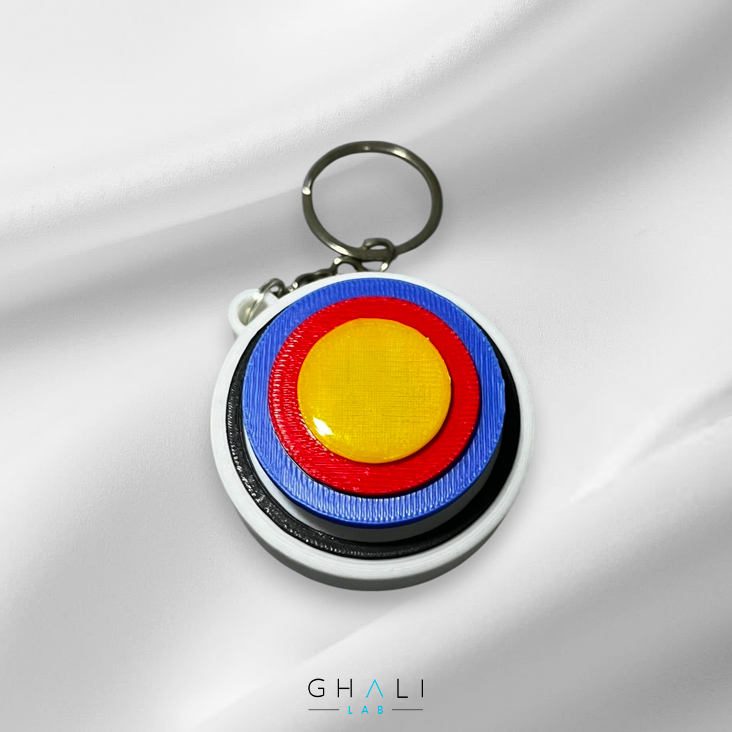
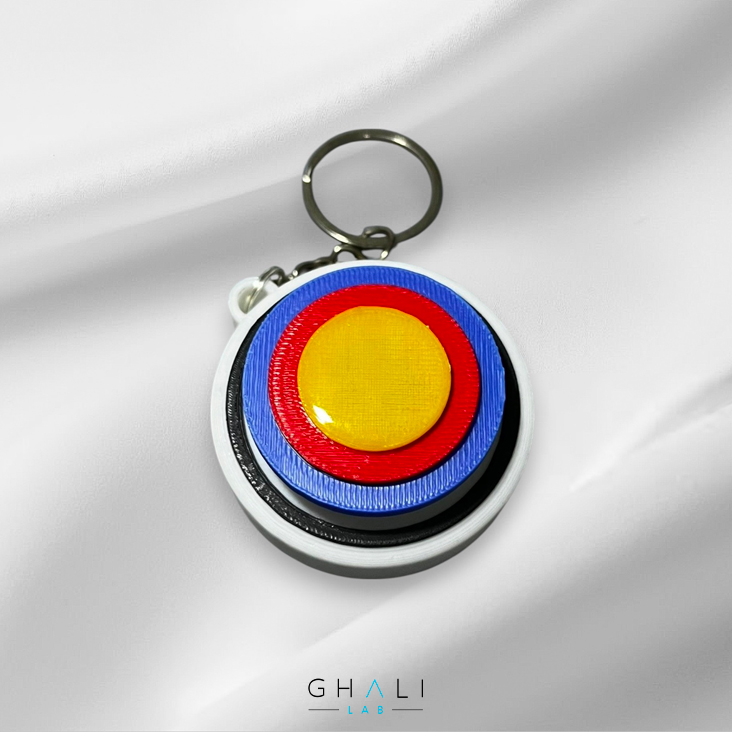
Update: Tienda stock-ing

Changed region(s): [[0.2705, 0.1503, 0.7213, 0.8415], [0.9918, 0.5109, 1.0, 0.541]]

diff --git a/stock.html b/stock.html
@@ -119,7 +119,8 @@
       <div class="row mb-4">
         <div class="col-12">
           <h2 class="fw-bold">Inventario de GHALI SHOP</h2>
-          <p class="text-white-50">Explora nuestros productos disponibles. Accesorios personalizados en impresión 3D, llaveros y piezas únicas listas para ti. Hechos a medida, con cariño y detalles a mano: (Envíos a todo Colombia.) </p>
+          <p class="text-white-50">Explora nuestros productos disponibles. Accesorios personalizados en impresión 3D, llaveros y piezas únicas listas para ti. Hechos a medida, con cariño y detalles a mano:
+          <br> <strong style="background-color: #00c4f8; padding-left: 15px; padding-right: 15px; padding-top: 1px; padding-bottom: 2px; color: #1b1b1b; border-radius: 10px;">Envíos a todo Colombia</strong> </p>
         </div>
       </div>
 
@@ -130,6 +131,9 @@
           <button class="btn btn-outline-light px-3 py-1 text-white filter-btn" data-filter="llaveros" style="border-radius: 8px; border-color: #ccc; font-size: 0.9rem;">Llaveros</button>
           <button class="btn btn-outline-light px-3 py-1 text-white filter-btn" data-filter="flexi" style="border-radius: 8px; border-color: #ccc; font-size: 0.9rem;">Flexi</button>
           <button class="btn btn-outline-light px-3 py-1 text-white filter-btn" data-filter="clicker" style="border-radius: 8px; border-color: #ccc; font-size: 0.9rem;">Clicker</button>          
+          <button class="btn btn-outline-light px-3 py-1 text-white filter-btn" data-filter="fidget" style="border-radius: 8px; border-color: #ccc; font-size: 0.9rem;">Fidget</button>
+          <button class="btn btn-outline-light px-3 py-1 text-white filter-btn" data-filter="services" style="border-radius: 8px; border-color: #ccc; font-size: 0.9rem;">Servicios</button>
+                  
         </div>
         <div class="col-md-4 col-12 d-flex justify-content-md-end justify-content-start">
           <div class="dropdown dropdown-hover" id="sortDropdownContainer">
@@ -259,7 +263,7 @@
           </div>
         </div>
 
-                <div class="col product-item clicker" data-price="25000">
+        <div class="col product-item clicker" data-price="25000">
           <div class="card h-100 bg-white text-dark position-relative p-2" style="border-radius: 12px; border: 1px solid #e0e0e0; box-shadow: 0 2px 5px rgba(0,0,0,0.05);">
             <img src="images/ghali shop/clicker-archery.jpg" class="card-img-top" alt="Clicker diana de arquería" style="border-radius: 8px; aspect-ratio: 1 / 1; object-fit: cover;">
             <div class="card-body px-1 pt-3 pb-2 d-flex flex-column justify-content-between">
@@ -269,6 +273,70 @@
               </div>
               <div class="d-flex justify-content-between align-items-center mt-auto">
                 <span class="fw-bold fs-6">$ 25.000</span>
+                <a href="https://wa.me/message/CM6P2Q2TNB6LA1" class="text-dark fs-5"><i class="fa-solid fa-cart-shopping"></i></a>
+              </div>
+            </div>
+          </div>
+        </div>
+
+        <div class="col product-item llaveros" data-price="25000">
+          <div class="card h-100 bg-white text-dark position-relative p-2" style="border-radius: 12px; border: 1px solid #e0e0e0; box-shadow: 0 2px 5px rgba(0,0,0,0.05);">
+            <img src="images/ghali shop/drdemon-keyring-personalized.jpg" class="card-img-top" alt="Llavero Personalizado" style="border-radius: 8px; aspect-ratio: 1 / 1; object-fit: cover;">
+            <div class="card-body px-1 pt-3 pb-2 d-flex flex-column justify-content-between">
+              <div>
+                <h5 class="card-title fs-6 fw-normal mb-1 text-secondary">Llaveros Personalizado</h5>
+                <p class="card-text small text-muted mb-3" style="line-height: 1.3;">Llavero personalizado con nombre, marca o palabra favorita.</p>
+              </div>
+              <div class="d-flex justify-content-between align-items-center mt-auto">
+                <span class="fw-bold fs-6">$ 25.000</span>
+                <a href="https://wa.me/message/CM6P2Q2TNB6LA1" class="text-dark fs-5"><i class="fa-solid fa-cart-shopping"></i></a>
+              </div>
+            </div>
+          </div>
+        </div>
+
+        <div class="col product-item clicker" data-price="25000">
+          <div class="card h-100 bg-white text-dark position-relative p-2" style="border-radius: 12px; border: 1px solid #e0e0e0; box-shadow: 0 2px 5px rgba(0,0,0,0.05);">
+            <img src="images/ghali shop/clicker-succulentus.jpg" class="card-img-top" alt="Clicker materita con carita" style="border-radius: 8px; aspect-ratio: 1 / 1; object-fit: cover;">
+            <div class="card-body px-1 pt-3 pb-2 d-flex flex-column justify-content-between">
+              <div>
+                <h5 class="card-title fs-6 fw-normal mb-1 text-secondary">Clicker materita con carita</h5>
+                <p class="card-text small text-muted mb-3" style="line-height: 1.3;">Clicker antiestrés: Planta suculenta con diseño de carita.</p>
+              </div>
+              <div class="d-flex justify-content-between align-items-center mt-auto">
+                <span class="fw-bold fs-6">$ 25.000</span>
+                <a href="https://wa.me/message/CM6P2Q2TNB6LA1" class="text-dark fs-5"><i class="fa-solid fa-cart-shopping"></i></a>
+              </div>
+            </div>
+          </div>
+        </div>
+
+        <div class="col product-item fidget" data-price="10000">
+          <div class="card h-100 bg-white text-dark position-relative p-2" style="border-radius: 12px; border: 1px solid #e0e0e0; box-shadow: 0 2px 5px rgba(0,0,0,0.05);">
+            <img src="images/ghali shop/fidget-shaker-gym.jpg" class="card-img-top" alt="Fidget shaker gym" style="border-radius: 8px; aspect-ratio: 1 / 1; object-fit: cover;">
+            <div class="card-body px-1 pt-3 pb-2 d-flex flex-column justify-content-between">
+              <div>
+                <h5 class="card-title fs-6 fw-normal mb-1 text-secondary">Fidget shaker gym</h5>
+                <p class="card-text small text-muted mb-3" style="line-height: 1.3;">Fidget shaker: Objeto de relajación para reducir el estrés y la ansiedad. Para amantes del fitness.</p>
+              </div>
+              <div class="d-flex justify-content-between align-items-center mt-auto">
+                <span class="fw-bold fs-6">$ 10.000</span>
+                <a href="https://wa.me/message/CM6P2Q2TNB6LA1" class="text-dark fs-5"><i class="fa-solid fa-cart-shopping"></i></a>
+              </div>
+            </div>
+          </div>
+        </div>
+
+        <div class="col product-item services" data-price="Cotizar">
+          <div class="card h-100 bg-white text-dark position-relative p-2" style="border-radius: 12px; border: 1px solid #e0e0e0; box-shadow: 0 2px 5px rgba(0,0,0,0.05);">
+            <img src="images/ghali shop/ghalilab.jpg" class="card-img-top" alt="Fidget shaker gym" style="border-radius: 8px; aspect-ratio: 1 / 1; object-fit: cover;">
+            <div class="card-body px-1 pt-3 pb-2 d-flex flex-column justify-content-between">
+              <div>
+                <h5 class="card-title fs-6 fw-normal mb-1 text-secondary">Creación de página web</h5>
+                <p class="card-text small text-muted mb-3" style="line-height: 1.3;">Creamos tu página web o aplicativo a la medida.</p>
+              </div>
+              <div class="d-flex justify-content-between align-items-center mt-auto">
+                <span class="fw-bold fs-6">Cotizar</span>
                 <a href="https://wa.me/message/CM6P2Q2TNB6LA1" class="text-dark fs-5"><i class="fa-solid fa-cart-shopping"></i></a>
               </div>
             </div>